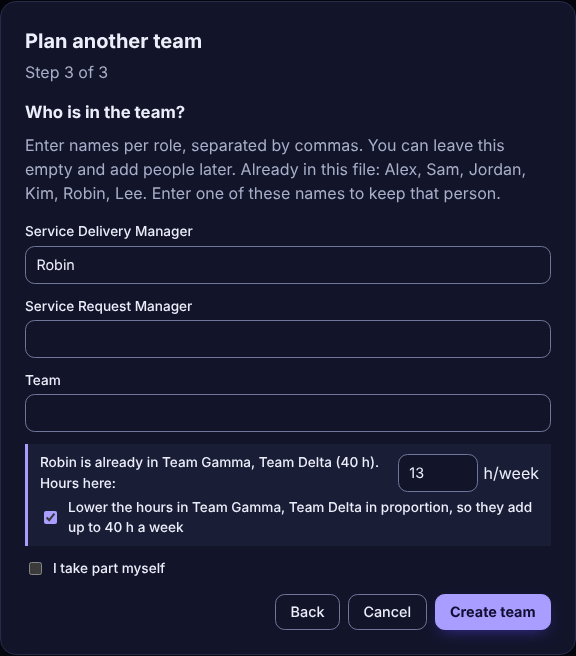
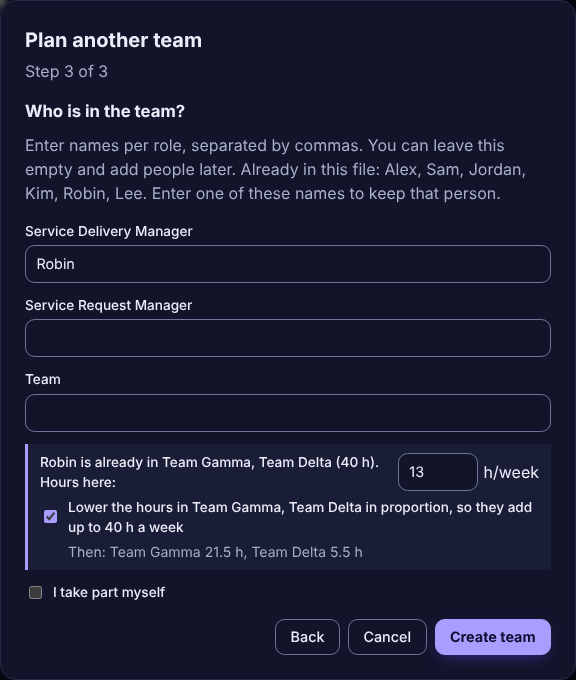
Apply review findings for the wizard hours split (#446)
- Keep the other hours when the hours here take the whole week.
- Hand the half hours rounding leaves to the largest remainders, so the
  other teams add up to exactly what is left.
- Count and name only places with hours for the even split and the tick.
- Show the hours the other teams keep under the tick ("Then: ...").
- Use {@const} for the 0 h note in the area table.

diff --git a/src/ui/setup/SetupWizard.svelte b/src/ui/setup/SetupWizard.svelte
@@ -1,9 +1,9 @@
 <script lang="ts">
   import { tick } from 'svelte';
   import { get } from 'svelte/store';
-  import { capacity, hoursLeft, placesOf, suggestedHours } from '../../core/load';
+  import { capacity, hoursLeft, placeHours, placesOf, suggestedHours } from '../../core/load';
   import { record } from '../../core/record';
-  import { setupTeam, type SetupMember } from '../../core/setup';
+  import { fittedHours, setupTeam, type SetupMember } from '../../core/setup';
   import { areaRoleIds, templateStart, type Template } from '../../core/template';
   import { BUILTIN_TEMPLATES, builtinTemplate, type BuiltinTemplateId } from '../../data/templates';
   import { formatDisplayDate, levels, locale, translate as t } from '../../i18n';
@@ -86,6 +86,9 @@
       key: string;
       name: string;
       places: string;
+      personId: string;
+      /** The teams and areas where the person has hours: the ones lowered to fit (#446). */
+      booked: string;
       hours: number;
       left: number;
       suggested: number;
@@ -103,6 +106,11 @@
         key,
         name: person.name,
         places: places.join(', '),
+        personId: person.id,
+        booked: placeHours(ws, person.id, $levels.org)
+          .filter((p) => p.hours > 0)
+          .map((p) => p.name)
+          .join(', '),
         hours: capacity(ws, person.id),
         left: hoursLeft(ws, person.id),
         suggested: suggestedHours(ws, person.id),
@@ -110,6 +118,19 @@
     }
     return out;
   });
+  /** The hours typed here for a person, or the proposal while the field is empty. */
+  const hoursOf = (a: { key: string; suggested: number }): number => {
+    const raw = hoursHere[a.key] ?? '';
+    return raw.trim() === '' ? a.suggested : Number(raw);
+  };
+  /** "Team Gamma 21.5 h, Team Delta 5.5 h": what the other teams keep (#446). */
+  const fittedText = (a: { key: string; personId: string; suggested: number }): string => {
+    const here = hoursOf(a);
+    if (!Number.isFinite(here) || here < 0) return '';
+    return fittedHours($workspace, a.personId, here, undefined, $levels.org)
+      .map((p) => `${p.name} ${num(p.hours)} h`)
+      .join(', ');
+  };
   const num = (n: number) => new Intl.NumberFormat($locale, { maximumFractionDigits: 1 }).format(n);
   const zones = supportedZones();
   const zoneOptions = $derived(
@@ -191,8 +212,7 @@
     const trimmed = name.trim();
     const hours = record<number>();
     for (const [i, a] of already.entries()) {
-      const raw = hoursHere[a.key] ?? '';
-      const n = raw.trim() === '' ? a.suggested : Number(raw);
+      const n = hoursOf(a);
       if (!Number.isFinite(n) || n < 0) {
         problem = {
           key: 'error.number.invalid',
@@ -366,18 +386,26 @@
                 }}
               />{$t('settings.people.unit')}</span
             >
-            {#if a.left === 0}
+            {#if a.left === 0 && a.booked !== ''}
+              {@const fitted = fittedText(a)}
               <label class="check fit">
                 <input
                   type="checkbox"
                   checked={!keepOthers[a.key]}
+                  aria-describedby="{uid}-fitted-{i}"
                   onchange={(e) => (keepOthers[a.key] = !e.currentTarget.checked)}
                 />
                 {$t('setup.people.fit', {
-                  units: a.places,
+                  units: a.booked,
                   hpw: num($workspace.settings.hoursPerWeek),
                 })}
               </label>
+              <!-- Always present, so screen readers announce the new hours as they change. -->
+              <p class="fitted hint" id="{uid}-fitted-{i}" aria-live="polite">
+                {fitted !== '' && !keepOthers[a.key]
+                  ? $t('setup.people.fitted', { hours: fitted })
+                  : ''}
+              </p>
             {/if}
           </div>
         {/each}
@@ -555,6 +583,14 @@
   .already .fit {
     flex: 1 1 100%;
     margin: 0;
+  }
+  .already .fitted {
+    flex: 1 1 100%;
+    margin: 0 0 0 1.75rem;
+    font-size: 0.875rem;
+  }
+  .already .fitted:empty {
+    display: none;
   }
   .already .fit input {
     width: auto;

diff --git a/src/core/setup.ts b/src/core/setup.ts
@@ -1,7 +1,7 @@
 import type { ISODate } from './date';
 import { addItem, addTeam, updateSettings } from './edit';
-import { capacity, halfHours } from './load';
-import type { Settings, Workspace } from './model';
+import { placeHours, type PlaceHours } from './load';
+import { ORG_UNIT, type Settings, type Workspace } from './model';
 import { applyTemplate, areaRoleIds, type Template } from './template';
 import { validate, type Result } from './validate';
 
@@ -92,7 +92,7 @@ export function setupTeam(ws: Workspace, input: SetupInput): Result<[Workspace, 
       input.fit?.includes(norm(person.name)) &&
       team.members.some((m) => m.personId === person.id)
     )
-      fitOthers(out, teamId, person.id);
+      fitOthers(out, teamId, person.id, team.memberHours[person.id] ?? out.settings.hoursPerWeek);
 
   const checked = validate(out);
   if (!checked.ok) return checked;
@@ -100,20 +100,45 @@ export function setupTeam(ws: Workspace, input: SetupInput): Result<[Workspace, 
 }
 
 /**
- * Lowers a person's hours in all teams and areas but `teamId` in proportion, in half hours, so
- * that all their hours add up to at most the Settings weekly hours. Hours that fit stay (#446).
+ * The hours a person keeps in their other teams and areas (all but `exceptId`) when they work
+ * `here` hours in one more team (#446): lowered in proportion to fit the Settings weekly hours,
+ * in half hours, with the half hours rounding leaves over going to the largest remainders so the
+ * total is exactly what is left. Empty when nothing needs to change: the hours already fit, or
+ * `here` alone takes all weekly hours (the over-hours flag says so instead). Places at 0 h stay.
  */
-function fitOthers(ws: Workspace, teamId: string, personId: string): void {
+export function fittedHours(
+  ws: Workspace,
+  personId: string,
+  here: number,
+  exceptId?: string,
+  org = '',
+): PlaceHours[] {
   const weekly = ws.settings.hoursPerWeek;
-  const here = capacity(ws, personId, teamId);
-  const others = capacity(ws, personId) - here;
-  const room = Math.max(0, weekly - here);
-  if (others <= room) return;
-  const scale = (h: number) => halfHours((h * room) / others);
-  for (const t of ws.teams)
-    if (t.id !== teamId && t.members.some((m) => m.personId === personId))
-      t.memberHours[personId] = scale(capacity(ws, personId, t.id));
-  const areaHours = [...ws.areas.map((a) => a.memberHours), ws.organisation?.memberHours];
-  for (const hours of areaHours)
-    if (hours && Object.hasOwn(hours, personId)) hours[personId] = scale(hours[personId]!);
+  const places = placeHours(ws, personId, org).filter((p) => p.id !== exceptId && p.hours > 0);
+  const others = places.reduce((sum, p) => sum + p.hours, 0);
+  const room = weekly - here;
+  if (room <= 0 || others <= room) return [];
+  const halves = Math.floor(room * 2 + 1e-9);
+  const exact = places.map((p) => (p.hours * halves) / others);
+  const out = exact.map((x) => Math.floor(x + 1e-9));
+  let left = halves - out.reduce((sum, n) => sum + n, 0);
+  const order = exact.map((x, i) => i).sort((a, b) => (exact[b]! % 1) - (exact[a]! % 1) || a - b);
+  for (const i of order) {
+    if (left <= 0) break;
+    out[i]!++;
+    left--;
+  }
+  return places.map((p, i) => ({ ...p, hours: out[i]! / 2 }));
+}
+
+/** Writes the fitted hours of a person into their other teams and areas (#446). */
+function fitOthers(ws: Workspace, teamId: string, personId: string, here: number): void {
+  for (const place of fittedHours(ws, personId, here, teamId)) {
+    const team = ws.teams.find((t) => t.id === place.id);
+    if (team) team.memberHours[personId] = place.hours;
+    const area = ws.areas.find((a) => a.id === place.id);
+    if (area) area.memberHours[personId] = place.hours;
+    if (place.id === ORG_UNIT && ws.organisation?.memberHours)
+      ws.organisation.memberHours[personId] = place.hours;
+  }
 }

diff --git a/tests/unit/setup.test.ts b/tests/unit/setup.test.ts
@@ -1,6 +1,7 @@
 import { describe, expect, it } from 'vitest';
 import { emptyWorkspace } from '../../src/core/model';
-import { setupTeam } from '../../src/core/setup';
+import { evenShare } from '../../src/core/load';
+import { fittedHours, setupTeam } from '../../src/core/setup';
 import { builtinTemplate } from '../../src/data/templates';
 
 const today = '2027-01-04';
@@ -260,5 +261,66 @@ describe('setupTeam', () => {
     });
     if (!r.ok) throw new Error('setup');
     expect(r.value[0].teams[0]!.memberHours).toEqual({ [ws.people[0]!.id]: 10 });
+  });
+
+  it('keeps the other hours when the hours here take the whole week', () => {
+    const first = setupTeam(emptyWorkspace(today), {
+      template: scrum,
+      name: 'Alpha',
+      start: today,
+      members: [{ name: 'Sam', roleId: roleId('Developers') }],
+    });
+    if (!first.ok) throw new Error('setup');
+    const r = setupTeam(first.value[0], {
+      template: scrum,
+      name: 'Beta',
+      start: today,
+      members: [{ name: 'Sam', roleId: roleId('Developers') }],
+      hours: { sam: 40 },
+      fit: ['sam'],
+    });
+    if (!r.ok) throw new Error('setup');
+    expect(r.value[0].teams[0]!.memberHours).toEqual({});
+  });
+});
+
+describe('fittedHours (#446)', () => {
+  function robin(gamma: number, delta: number) {
+    const ws = emptyWorkspace(today);
+    ws.people.push({ id: 'p', name: 'Robin' });
+    const team = (id: string, hours: number) => ({
+      id,
+      name: id,
+      cadence: { kind: 'sprint' as const, lengthWeeks: 2, start: today },
+      members: [{ personId: 'p', roleId: 'r' }],
+      memberHours: { p: hours },
+      assumptions: {},
+      cycles: [],
+      events: [],
+    });
+    ws.teams.push(team('Gamma', gamma), team('Delta', delta));
+    return ws;
+  }
+
+  it('hands the half hours rounding leaves to the largest remainders, so the total fits', () => {
+    // 27 h left for 32 h and 8 h: 21.6 h and 5.4 h, in half hours 21.5 h and 5.5 h.
+    const out = fittedHours(robin(32, 8), 'p', 13);
+    expect(out.map((p) => [p.name, p.hours])).toEqual([
+      ['Gamma', 21.5],
+      ['Delta', 5.5],
+    ]);
+    expect(out.reduce((sum, p) => sum + p.hours, 0)).toBe(27);
+  });
+
+  it('changes nothing when the hours fit or the hours here take the whole week', () => {
+    expect(fittedHours(robin(20, 10), 'p', 10)).toEqual([]);
+    expect(fittedHours(robin(32, 8), 'p', 40)).toEqual([]);
+    expect(fittedHours(robin(32, 8), 'p', 45)).toEqual([]);
+  });
+
+  it('leaves out places at 0 h, also for the even split', () => {
+    const ws = robin(40, 0);
+    expect(fittedHours(ws, 'p', 20).map((p) => [p.name, p.hours])).toEqual([['Gamma', 20]]);
+    expect(evenShare(ws, 'p')).toBe(20);
   });
 });

diff --git a/tests/e2e/split-people.spec.ts b/tests/e2e/split-people.spec.ts
@@ -60,6 +60,7 @@ test('I take part myself: the wizard asks for my hours too, and splits them when
     'Lower the hours in Team Alpha, Team Beta in proportion, so they add up to 40 h a week',
   );
   await expect(fit).toBeChecked();
+  await expect(fit).toHaveAccessibleDescription('Then: Team Alpha 13.5 h, Team Beta 13.5 h');
   // A negative number stops the form (min 0) and the field gets the focus.
   await hours.fill('-2');
   await dialog.getByRole('button', { name: 'Create team' }).click();
@@ -67,6 +68,7 @@ test('I take part myself: the wizard asks for my hours too, and splits them when
   await expect(hours).toBeFocused();
   // 4 h here leave 36 h: Alpha and Beta go from 20 h to 18 h each.
   await hours.fill('4');
+  await expect(fit).toHaveAccessibleDescription('Then: Team Alpha 18 h, Team Beta 18 h');
   await dialog.getByRole('button', { name: 'Create team' }).click();
   await expect(dialog).toBeHidden();
   await openTeamView(page);
@@ -121,12 +123,19 @@ test('reusing a person in the wizard splits their hours and the area table follo
   await expect(
     dialog.getByLabel('Robin is already in Team Gamma, Team Delta (40 h). Hours here:'),
   ).toHaveValue('13');
+  // 21.6 h and 5.4 h, in half hours that still add up to 27 h.
+  await expect(dialog.getByText('Then: Team Gamma 21.5 h, Team Delta 5.5 h')).toBeVisible();
   await dialog.getByRole('button', { name: 'Create team' }).click();
   await expect(dialog).toBeHidden();
   await pickUnit(page, 'Team Gamma');
   await openTeamView(page);
   const robin = panel(page).getByLabel('Weekly hours of Robin in Team Gamma');
   await expect(robin).toHaveValue('21.5');
+  await pickUnit(page, 'Team Delta');
+  await openTeamView(page);
+  await expect(panel(page).getByLabel('Weekly hours of Robin in Team Delta')).toHaveValue('5.5');
+  await pickUnit(page, 'Team Gamma');
+  await openTeamView(page);
 
   // Fewer hours in Gamma for the same meetings: its share goes up.
   await pickUnit(page, 'Commerce');

diff --git a/src/core/load.ts b/src/core/load.ts
@@ -212,12 +212,35 @@ export function hoursLeft(ws: Workspace, personId: string): number {
 /** Hours rounded down to half hours, the step of the hours fields. */
 export const halfHours = (h: number): number => Math.floor(h * 2 + 1e-9) / 2;
 
+/** A team or area (or the organisation) a person works in, with their weekly hours there. */
+export interface PlaceHours {
+  id: string;
+  name: string;
+  hours: number;
+}
+
+/** The teams and areas a person works in, as `placesOf`, with their hours in each (#446). */
+export function placeHours(ws: Workspace, personId: string, org = ''): PlaceHours[] {
+  return [
+    ...ws.teams
+      .filter((t) => t.members.some((m) => m.personId === personId))
+      .map((t) => ({ id: t.id, name: t.name, hours: capacity(ws, personId, t.id) })),
+    ...areaUnits(ws)
+      .filter(
+        (a) =>
+          Object.hasOwn(a.memberHours, personId) || a.members.some((m) => m.personId === personId),
+      )
+      .map((a) => ({ id: a.id, name: a.name || org, hours: areaHours(ws, a.id, personId) })),
+  ];
+}
+
 /**
- * The Settings weekly hours split evenly over the person's teams and areas and one more, in half
- * hours (#446). Someone in no team gets them all.
+ * The Settings weekly hours split evenly over the teams and areas where the person has hours and
+ * one more, in half hours (#446). Someone with no hours anywhere gets them all.
  */
 export function evenShare(ws: Workspace, personId: string): number {
-  return halfHours(ws.settings.hoursPerWeek / (placesOf(ws, personId).length + 1));
+  const places = placeHours(ws, personId).filter((p) => p.hours > 0).length;
+  return halfHours(ws.settings.hoursPerWeek / (places + 1));
 }
 
 /**

diff --git a/src/ui/views/AreaOverview.svelte b/src/ui/views/AreaOverview.svelte
@@ -541,6 +541,7 @@
         </thead>
         <tbody>
           {#each costs.teams as r (r.unitId)}
+            {@const zero = zeroNote(r.unitId)}
             <tr data-cost-row={r.unitId}>
               <th scope="row">
                 {#if onOpenUnit}
@@ -569,8 +570,8 @@
                   <span class="num" class:over={over(r)}>{shareText(r)}</span>
                   <span class="cap muted" aria-hidden="true">{$t('overview.cost.col.share')}</span>
                 </span>
-                {#if zeroNote(r.unitId)}
-                  <small data-zero-hours>{zeroNote(r.unitId)}</small>
+                {#if zero}
+                  <small data-zero-hours>{zero}</small>
                 {/if}
               </td>
               {#if rate && r.cost}
